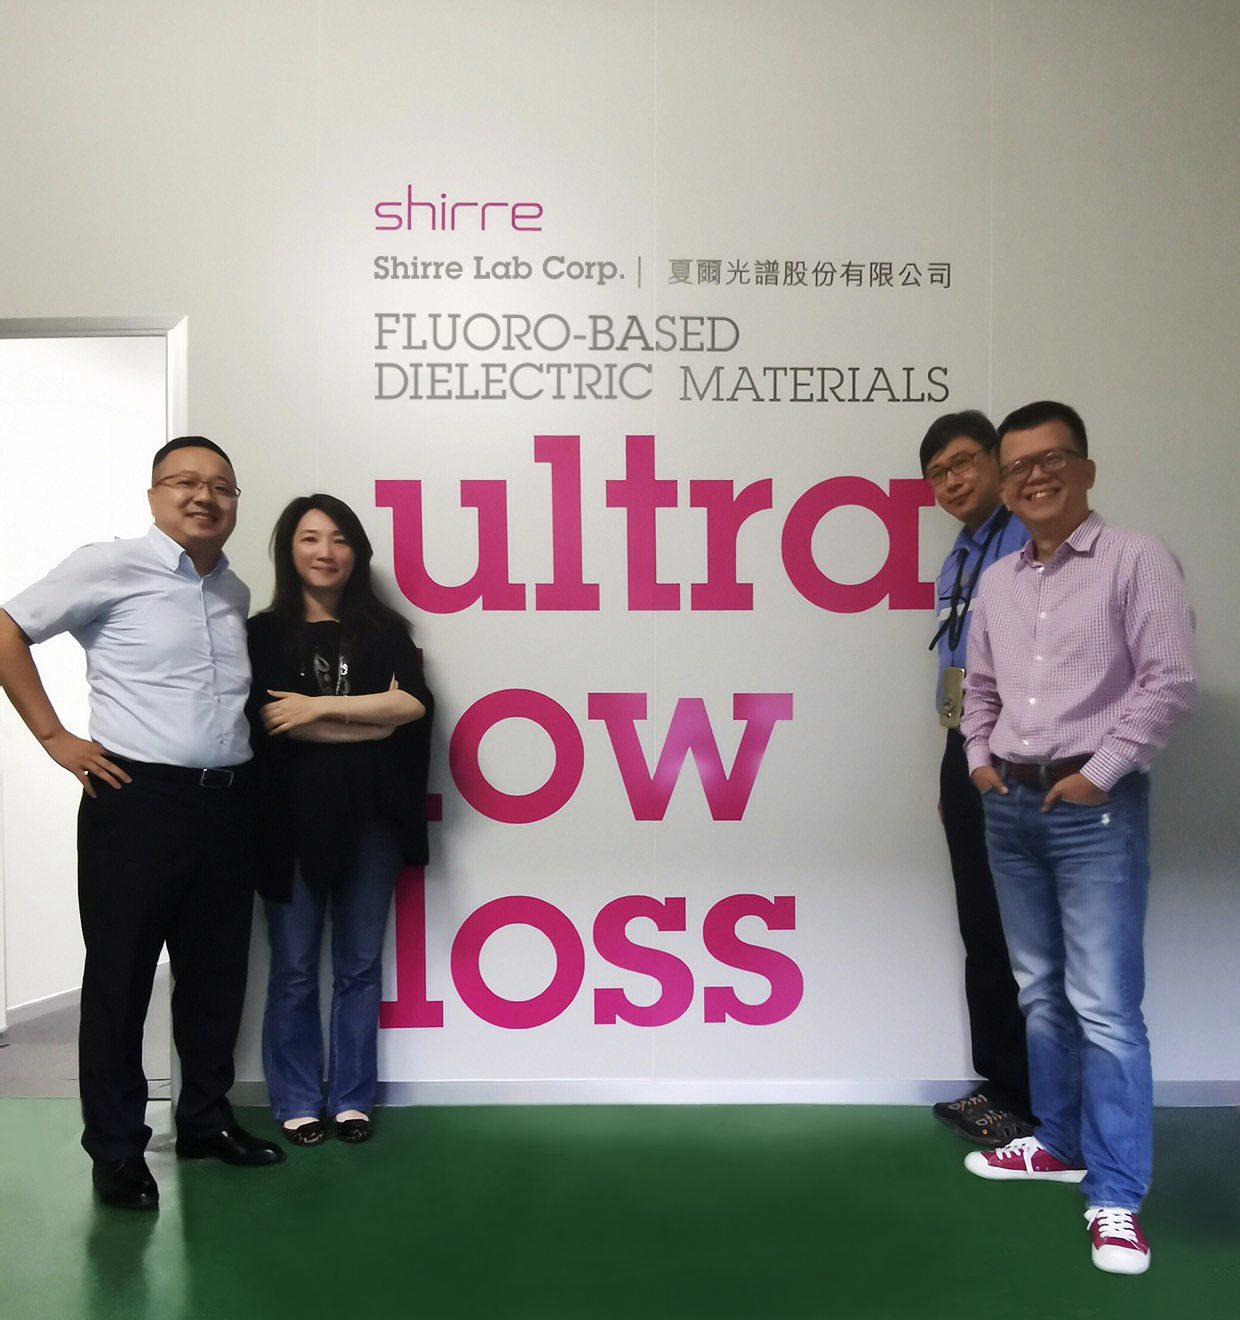
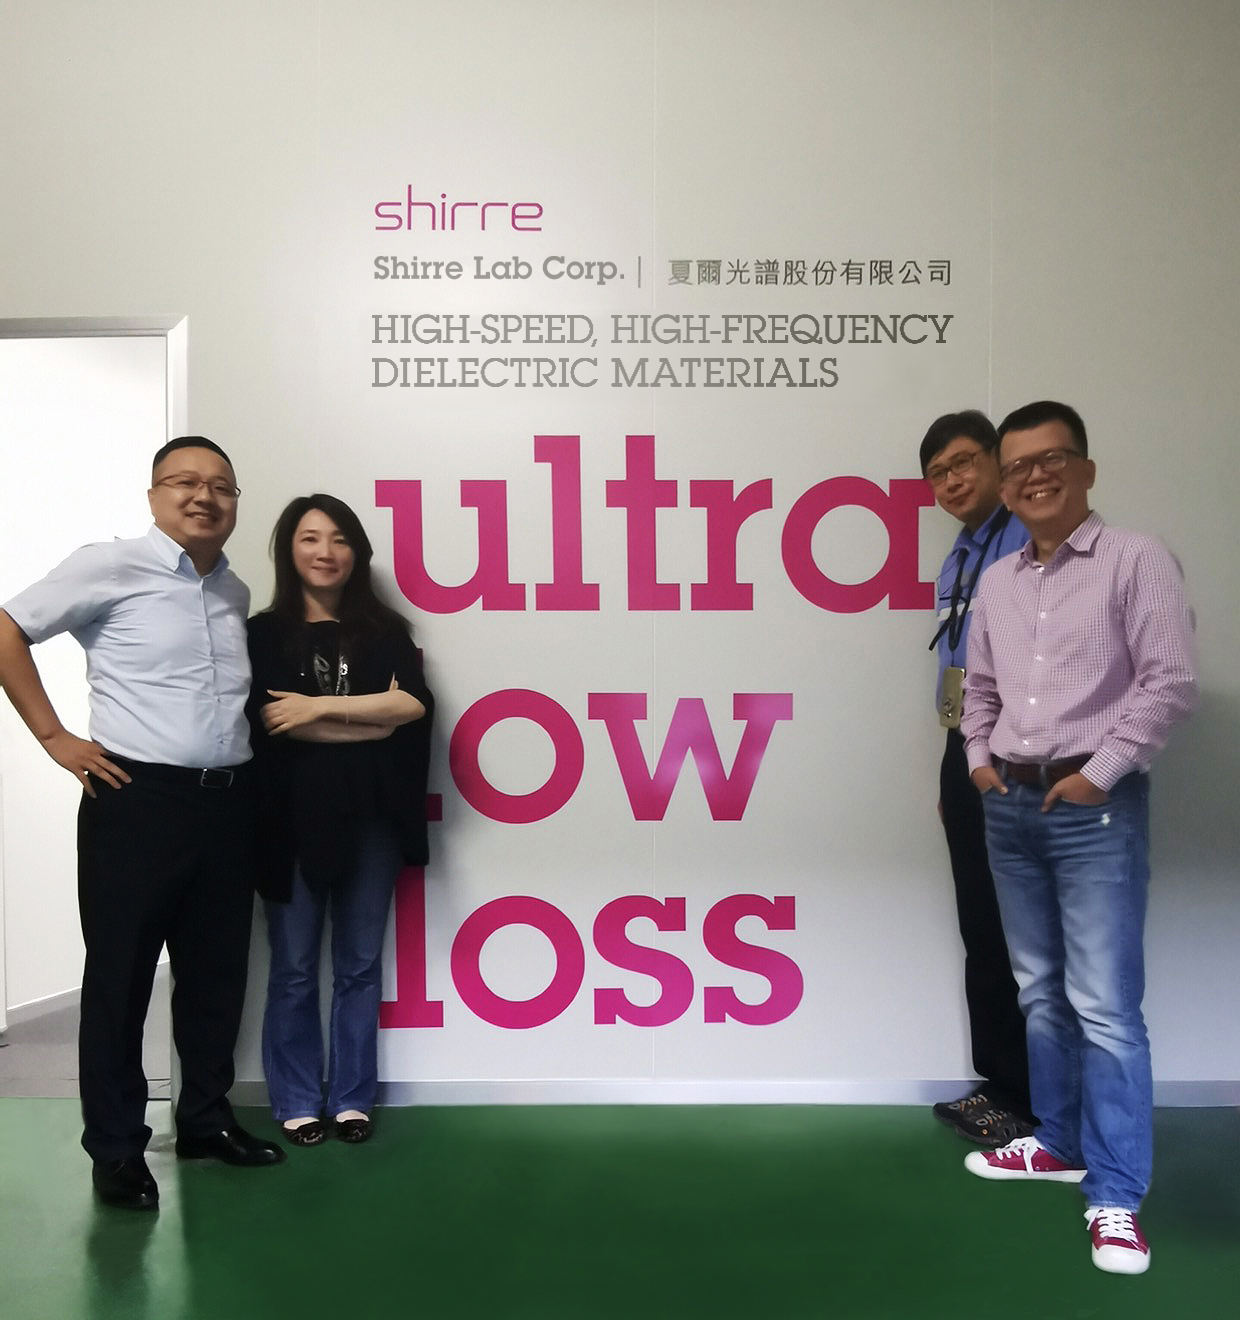
20230320

Changed region(s): [[0.2758, 0.1864, 0.7661, 0.3106]]

diff --git a/_sass/_style.scss b/_sass/_style.scss
@@ -94,7 +94,7 @@ body {
 }
 
 .logo-container {
-  background-image: url(../assets/img/Shirre_logo.svg);
+  background-image: url(../assets/img/shirre_logo.jpg);
   margin-top: 4vh;
   margin-bottom: 1vh;
   margin-left: 0;
@@ -240,6 +240,20 @@ body {
 
 
 @media screen and  (max-width:630px) {
+  .logo-container {
+    background-image: url(../assets/img/shirre_logo_vertical.jpg);
+    margin-top: 4vh;
+    margin-bottom: 1vh;
+    margin-left: 0;
+    height: 10vh;
+    min-height: 100px;
+    min-width: 250px;
+    width: 40%;
+    background-size: 100% auto;
+    background-position: left center;
+    background-repeat: no-repeat;
+  }
+
   .header-back {
     height: 100%;
     width: 100%;

diff --git a/_products/005-pherotetra.md b/_products/005-pherotetra.md
@@ -3,5 +3,5 @@ title:  "PheroTetra<sup>®</sup>"
 picture: 
 ---
 
-PheroTetra<sup>®</sup>–with exceptional Dielectric Performance and ultra-low loss up to mmWave frequencies–is a fluorocarbon-based dielectric material technology developed by Shirre Lab Corp. The multi-layer structure is designed and manufactured to ensure the best signal integrity for RF antenna applications.
+PheroTetra<sup>®</sup>–with exceptional Dielectric Performance and ultra-low loss up to mmWave frequencies–is a dielectric material technology developed by Shirre Lab Corp. The multi-layer structure is designed and manufactured to ensure the best signal integrity for RF antenna applications.
 
